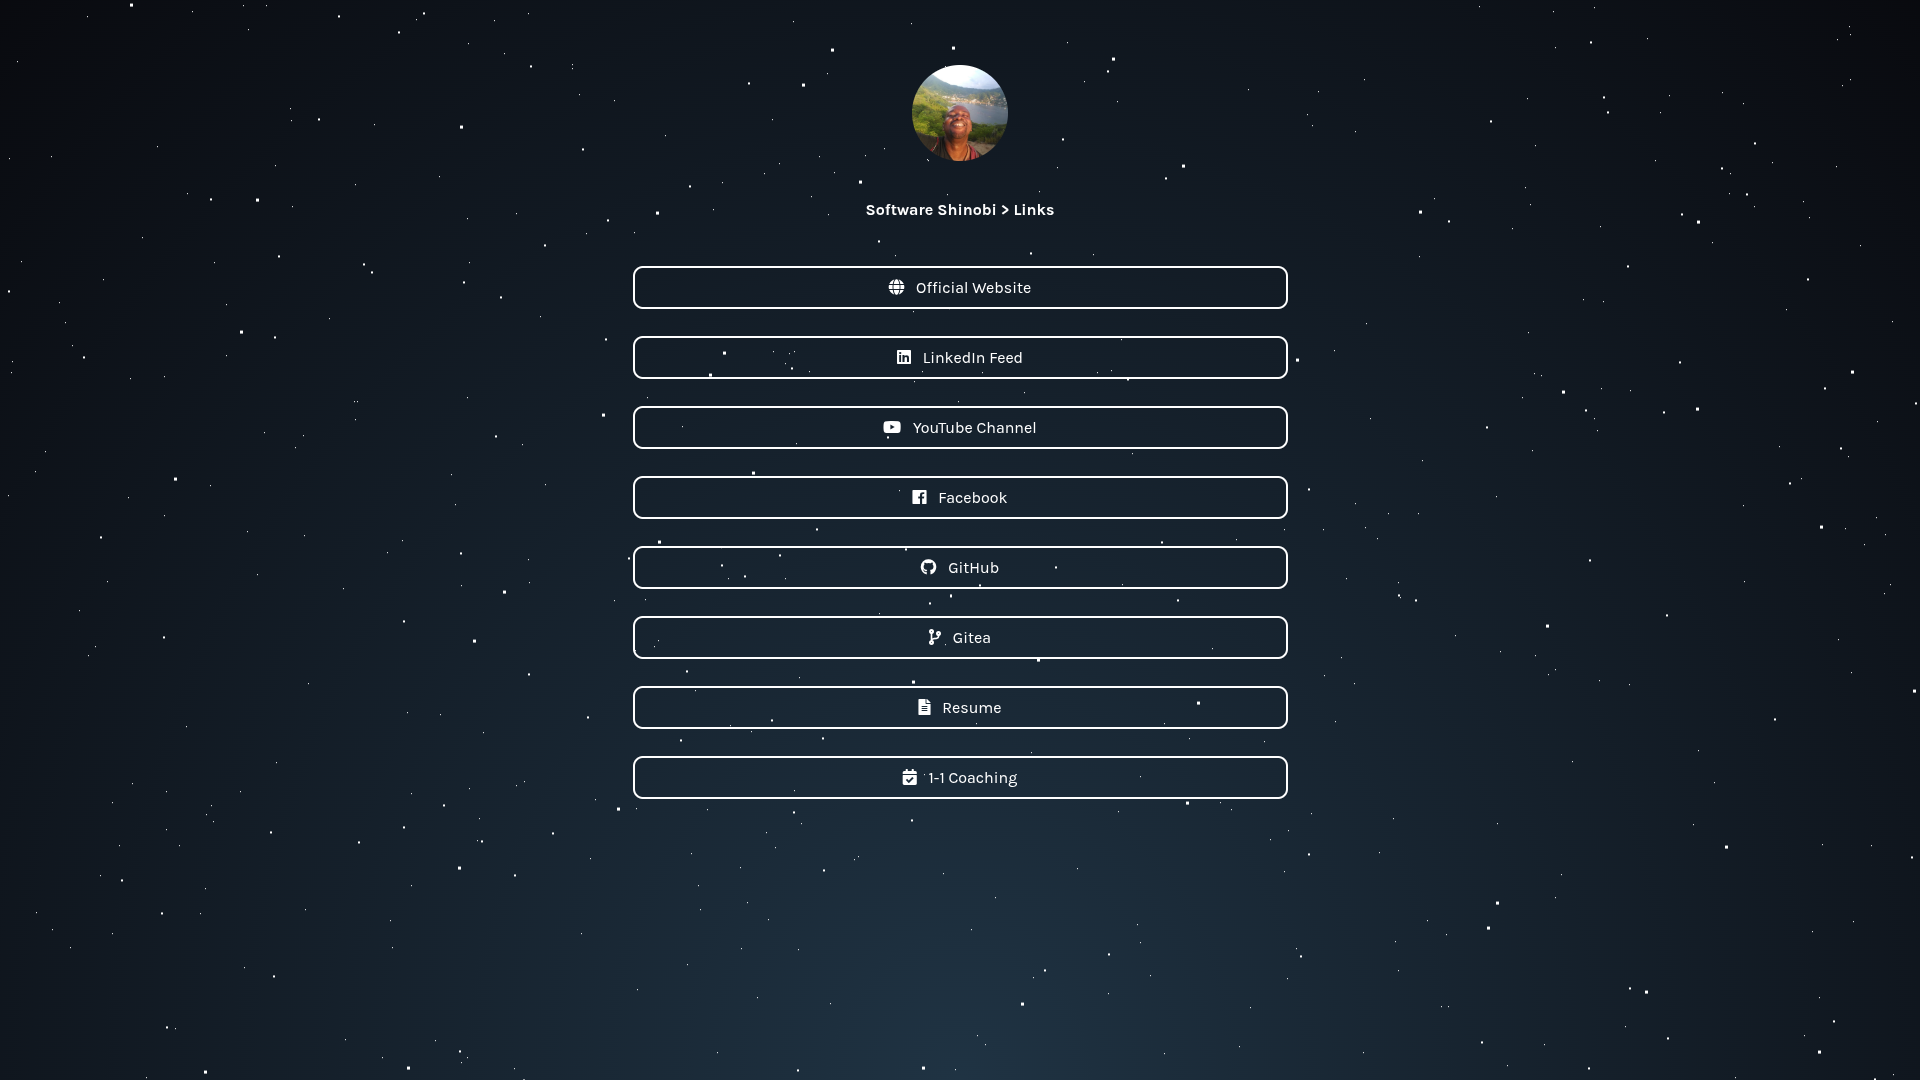
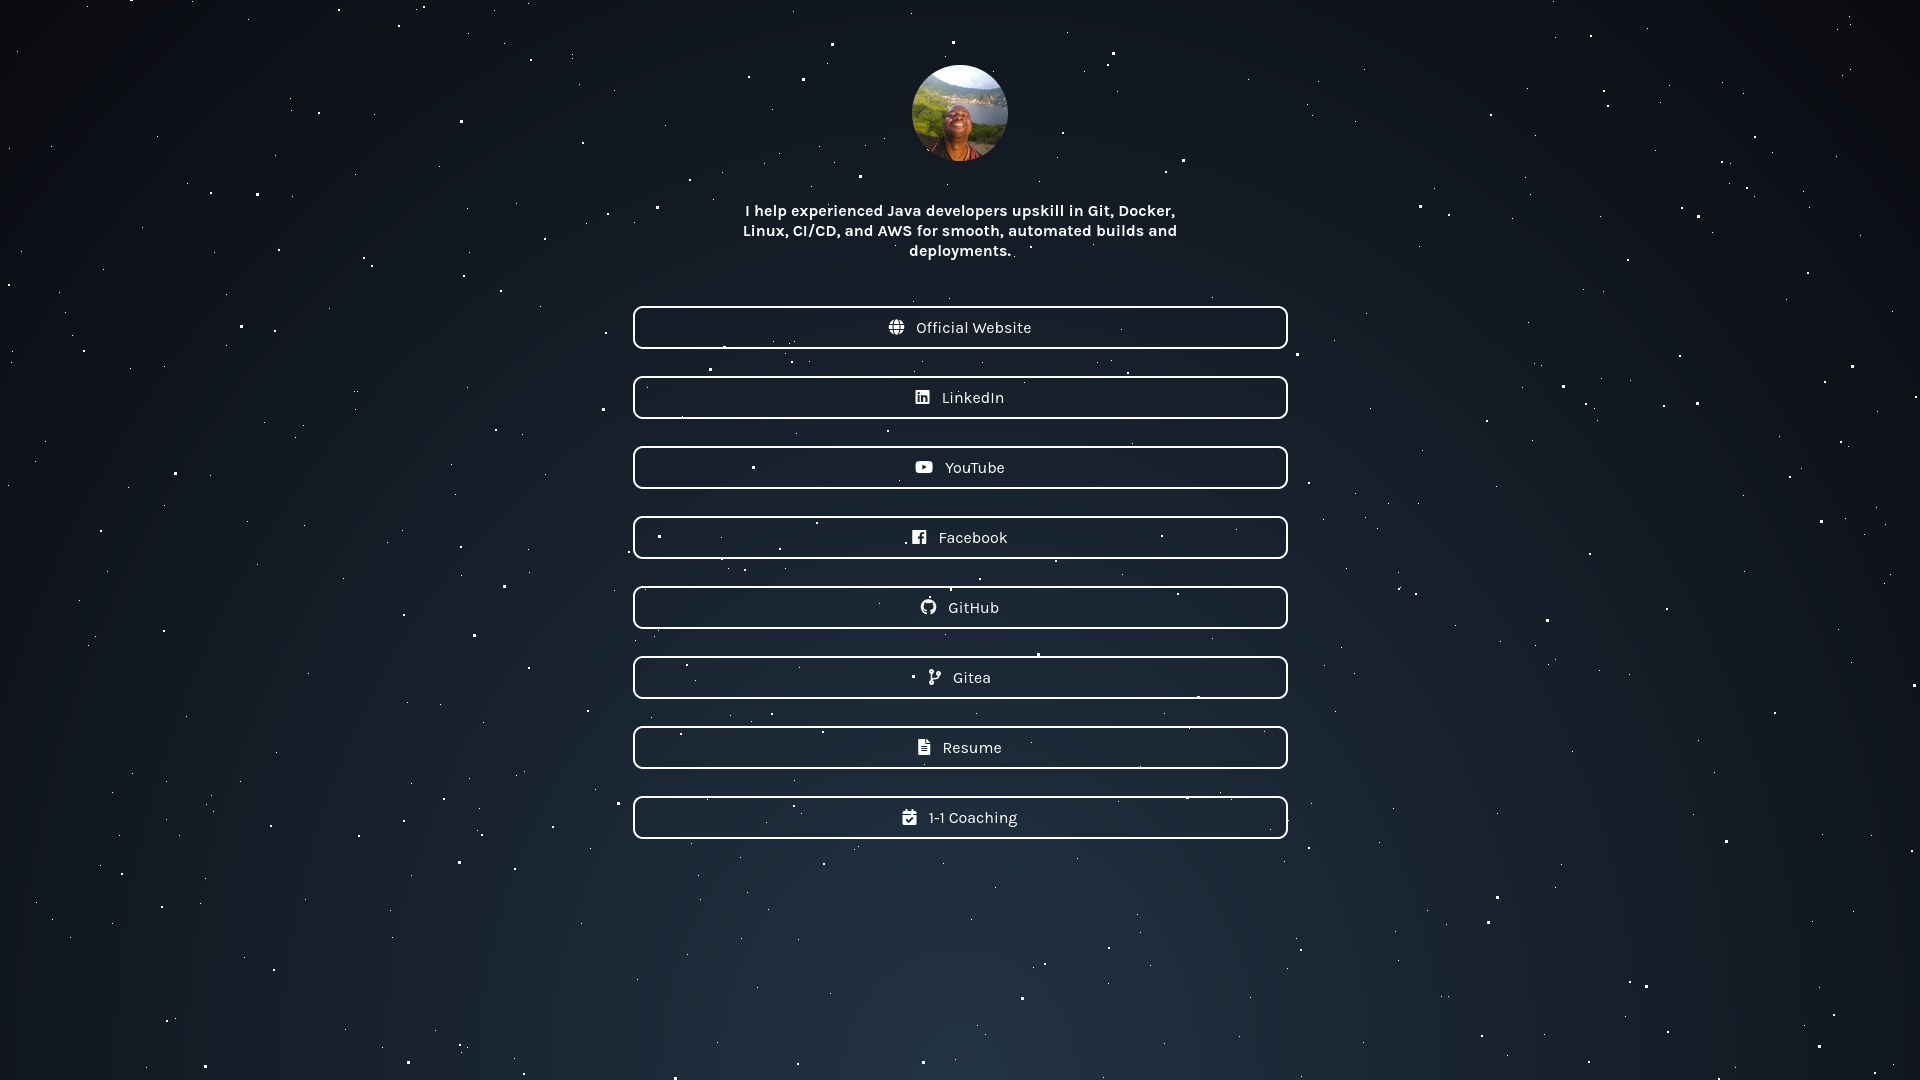
automated terminal push

Changed region(s): [[0.3125, 0.1833, 0.6875, 0.7639]]

diff --git a/index.html b/index.html
@@ -13,7 +13,7 @@
 
     <link rel="stylesheet" href="css/linktree-clone.css">
 
-    <link rel="stylesheet" href="css/task-tracker-styling.css">
+    <link rel="icon" type="image/png" sizes="32x32" href="https://cdn.allmylinks.com/prod/User/photo/l/U/t/sCUgUDbSvbSWlRpakzRe3K8ridPWbym-.jpg">
 
 </head>
 
@@ -59,14 +59,14 @@ I help experienced Java developers upskill in Git, Docker, Linux, CI/CD, and AWS
 <div id="links">
     <a class="link" target="_blank" rel="noopener noreferrer" href="https://linkedin.com/in/softwareshinobi">
         <i class="fab fa-linkedin"> &nbsp;</i>
-        LinkedIn Feed
+        LinkedIn
     </a>
 </div>
 
 <div id="links">
     <a class="link" target="_blank" rel="noopener noreferrer" href="https://www.youtube.com/@softwareshinobi">
         <i class="fab fa-youtube"> &nbsp;</i>
-        YouTube Channel
+        YouTube
     </a>
 </div>
 
@@ -106,7 +106,7 @@ I help experienced Java developers upskill in Git, Docker, Linux, CI/CD, and AWS
 </div>
 
 <div id="hashtag">
-    i help devs get more power!
+I help experienced Java developers upskill in Git, Docker, Linux, CI/CD, and AWS for smooth, automated builds and deployments.
 </div>
 
 </body>
